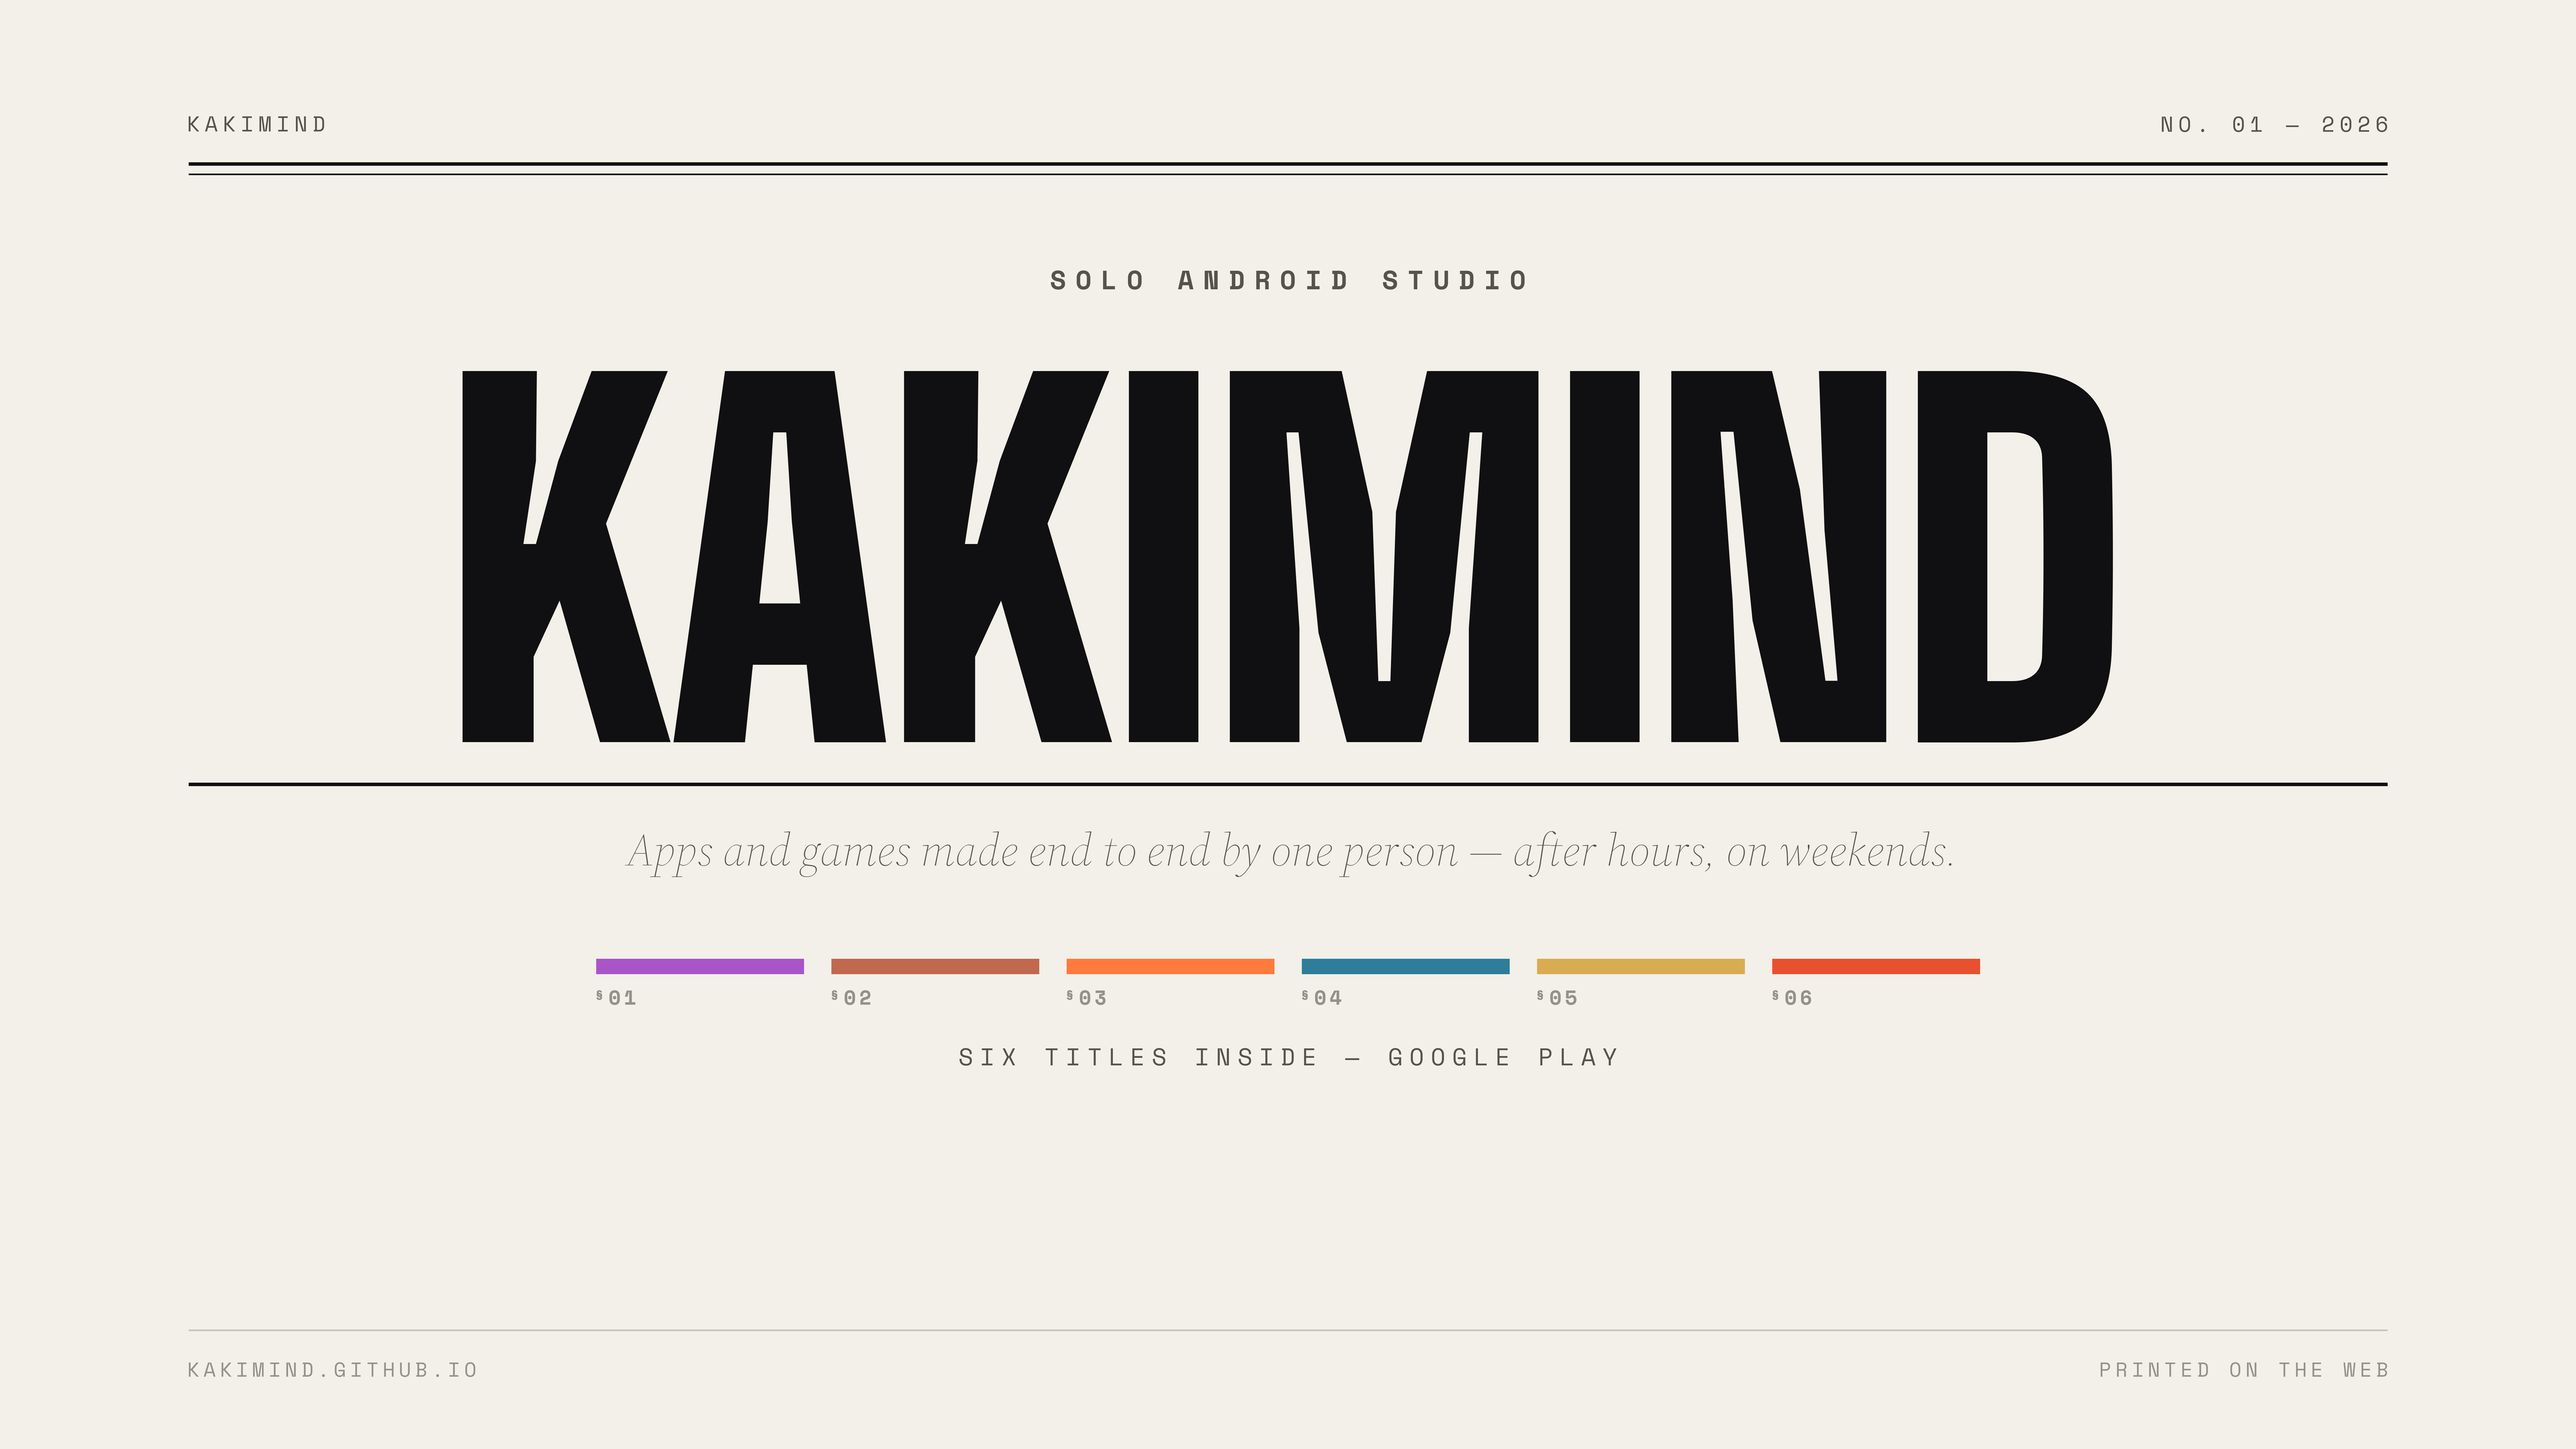
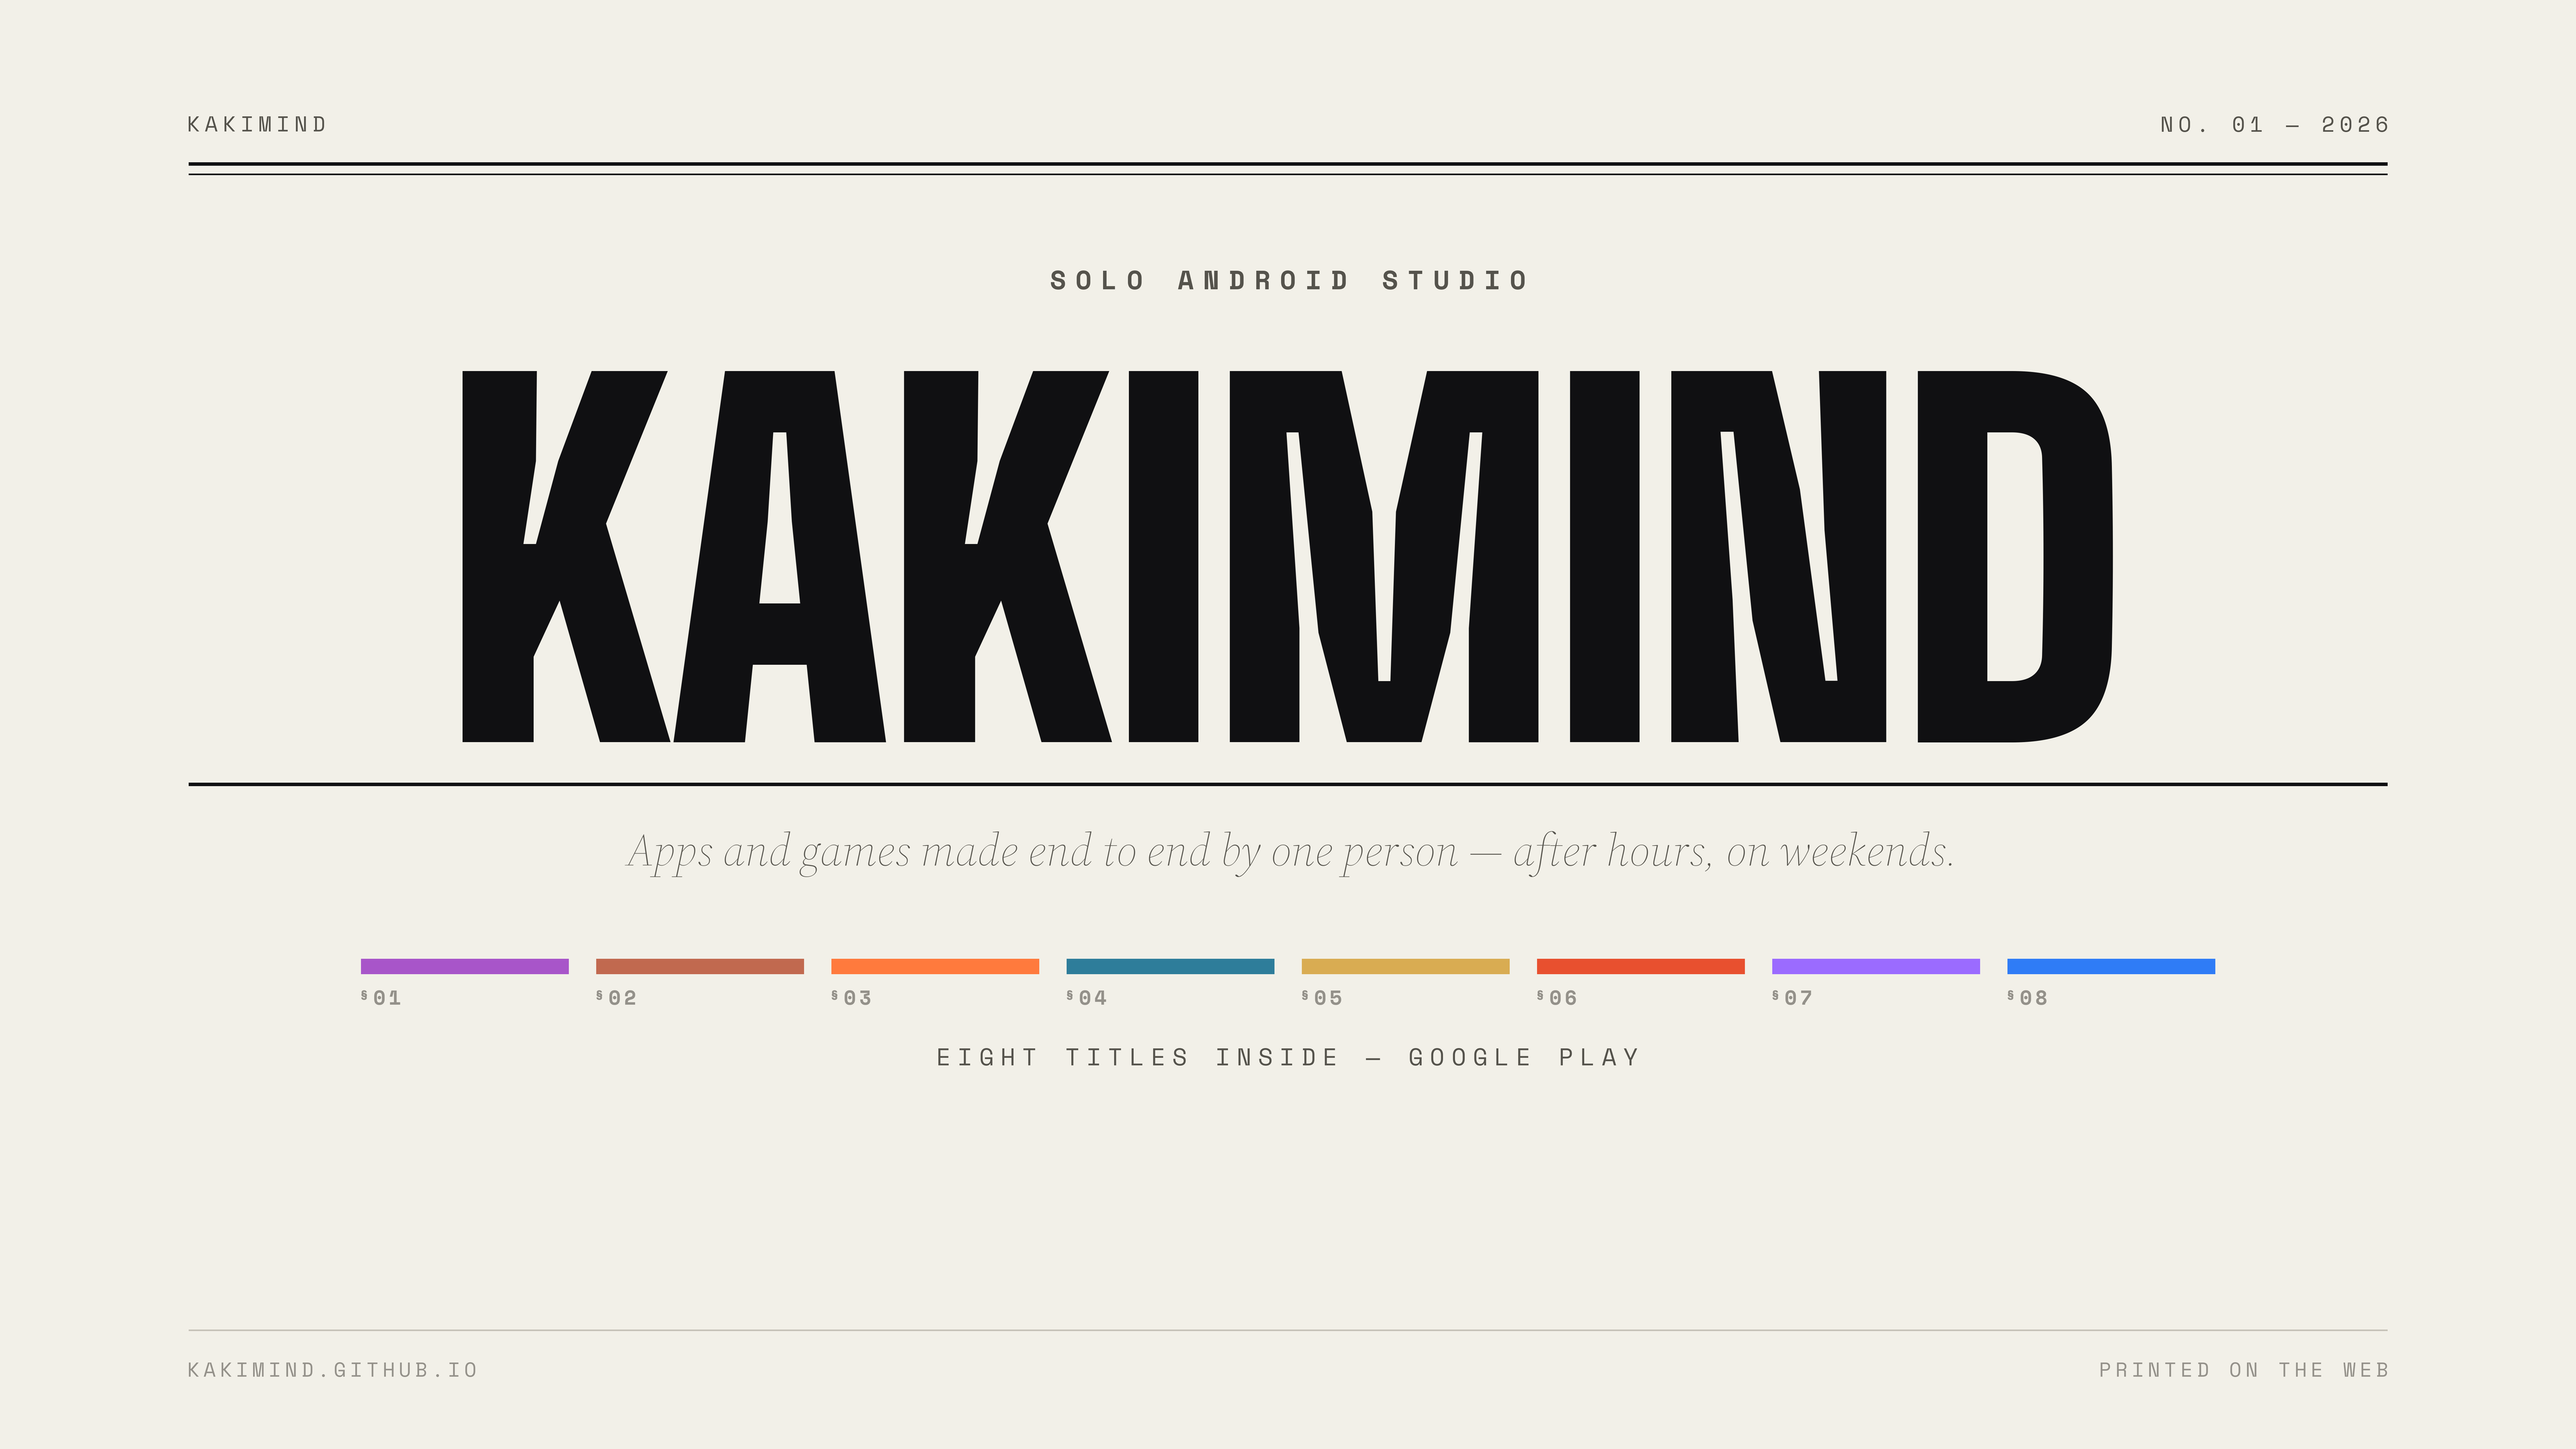
Draw the profile artwork with all eight titles
The register bar carried six. Top of Gravity and Bubble Rumble had
shipped since the script was written, so the icon and header were
two titles short of the hub they stand for.

The count is no longer typed in twice. SPOTS gains the two entries
and the header's spelled-out number is derived from its length, so
the next title is a one-line edit rather than a thing to remember.

Fonts stay out of the repo -- they are OFL and 2.4MB, and the script
failing on a missing fonts/ was the reason this went stale unnoticed.
A README now carries the exact commands to fetch them and re-run.

Changed region(s): [[0.125, 0.6562, 0.875, 0.6875], [0.5625, 0.7188, 0.625, 0.75], [0.4688, 0.7188, 0.5, 0.75]]

diff --git a/play-developer-profile/build-profile-assets.py b/play-developer-profile/build-profile-assets.py
@@ -18,7 +18,16 @@ SPOTS = [("01", (168,  85, 201)),   # PomPom Ville
          ("03", (255, 122,  61)),   # 불씨
          ("04", ( 46, 125, 154)),   # 동행
          ("05", (217, 172,  82)),   # Dear Star, My Wish
-         ("06", (232,  80,  47))]   # Orbit Hop
+         ("06", (232,  80,  47)),   # Orbit Hop
+         ("07", (155, 107, 255)),   # Top of Gravity
+         ("08", ( 47, 124, 246))]   # Bubble Rumble
+
+# The header spells the count out, and it went stale once already: the
+# artwork still read SIX after two more titles had shipped. Spelling it
+# from the list means adding a title above is the only edit needed.
+COUNT_WORD = {1: "ONE", 2: "TWO", 3: "THREE", 4: "FOUR", 5: "FIVE",
+              6: "SIX", 7: "SEVEN", 8: "EIGHT", 9: "NINE", 10: "TEN",
+              11: "ELEVEN", 12: "TWELVE"}.get(len(SPOTS), str(len(SPOTS)))
 
 
 def shoulders(size, wght=900):
@@ -177,7 +186,7 @@ def build_header(path, W=4096, H=2304):
                  bx, y + bar_h + p(26))
         bx += bar_w + gap
 
-    paste_center(img, render_tracked("SIX TITLES INSIDE \u2014 GOOGLE PLAY",
+    paste_center(img, render_tracked(f"{COUNT_WORD} TITLES INSIDE \u2014 GOOGLE PLAY",
                                      mono(p(38)), INK_SOFT, p(38) * 0.28),
                  cx, y + bar_h + p(118))
 

diff --git a/play-developer-profile/README.md b/play-developer-profile/README.md
@@ -1,0 +1,42 @@
+# Play 개발자 프로필 에셋
+
+Google Play 개발자 프로필에 올라가는 두 장. 허브와 앱 페이지들이 쓰는 매거진
+시스템과 같은 어휘로 그린다 — Big Shoulders의 KM 모노그램, Space Mono
+워드마크, 앱마다 하나씩인 스팟 컬러 레지스터 바.
+
+- `kakimind-developer-icon-512.png` — 512×512
+- `kakimind-developer-header-4096x2304.png` — 4096×2304 (16:9)
+
+## 다시 뽑기
+
+폰트는 저장소에 넣지 않는다 (OFL, 합계 2.4MB). 먼저 받아야 한다:
+
+```sh
+cd play-developer-profile && mkdir -p fonts && cd fonts
+B=https://github.com/google/fonts/raw/main/ofl
+curl -sSL -o BigShouldersDisplay.ttf  "$B/bigshouldersdisplay/BigShouldersDisplay%5Bwght%5D.ttf"
+curl -sSL -o SourceSerif4.ttf         "$B/sourceserif4/SourceSerif4%5Bopsz,wght%5D.ttf"
+curl -sSL -o SourceSerif4-Italic.ttf  "$B/sourceserif4/SourceSerif4-Italic%5Bopsz,wght%5D.ttf"
+curl -sSL -o SpaceMono-Regular.ttf    "$B/spacemono/SpaceMono-Regular.ttf"
+curl -sSL -o SpaceMono-Bold.ttf       "$B/spacemono/SpaceMono-Bold.ttf"
+```
+
+그다음:
+
+```sh
+python build-profile-assets.py        # out/ 에 생성
+cp out/kakimind-developer-*.png .     # 업로드하는 2장은 루트에 둔다
+```
+
+`out/`에는 눈으로 확인하라고 축소본도 같이 나온다 (`preview-header.png`,
+48px로 줄였다 키운 `preview-icon-48.png`).
+
+## 앱이 늘면
+
+`build-profile-assets.py`의 `SPOTS` 리스트에 `("<번호>", (R, G, B))` 한 줄만
+더하면 된다. 아이콘·헤더의 바 개수와 헤더의 "EIGHT TITLES INSIDE" 문구가
+리스트 길이를 따라간다. 스팟 컬러는 루트 CLAUDE.md의 디자인 시스템 절에
+앱별로 적혀 있다.
+
+> 한 번 어긋난 적이 있다. 개수가 코드에 박혀 있어서, Top of Gravity와
+> Bubble Rumble이 추가된 뒤에도 에셋은 8일 동안 여섯 개짜리였다.
